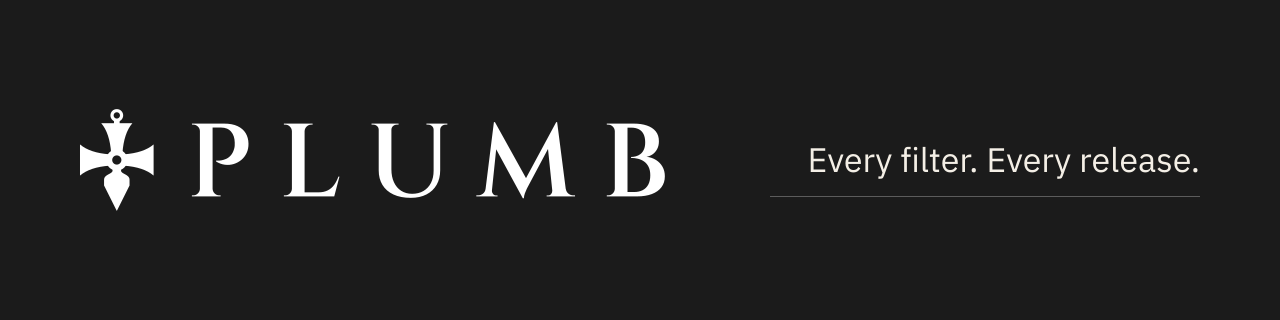
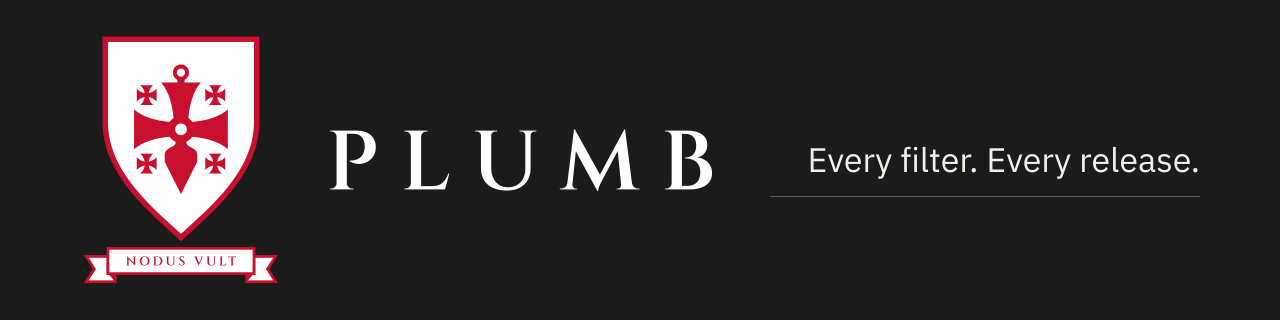
doc: Put the emblem on the social preview and README header
Plumb has an emblem now: the cross mark on a white shield with four
crosslets, over a scroll reading NODUS VULT. plumb-emblem.svg is the
master, with one-color black and white versions next to it. The motto
is drawn as outlines, so rendering it needs no font.

gen-assets.py puts the emblem to the left of the wordmark on the social
preview and the README header, and renders emblem-896.png. A second
run of the script changes nothing, and the X banner, avatars, favicons
and filter badge come out the same as before.

Changed region(s): [[0.0625, 0.0938, 0.5625, 0.9062]]

diff --git a/plumb/tools/gen-assets.py b/plumb/tools/gen-assets.py
@@ -7,7 +7,9 @@
 Reads plumb/filters.json, checks it against PLUMB_FILTERS in src/init.cpp,
 writes plumb/FILTERS.md, the filter list in README.md and the filter badge,
 and renders the README header, social preview,
-X banner, avatars and favicons with rsvg-convert. Rendering needs the
+X banner, emblem, avatars and favicons with rsvg-convert. The README header
+and social preview carry the emblem from plumb/assets/plumb-emblem.svg; its
+motto is drawn as outlines, so it needs no font. Rendering needs the
 Cinzel, IBM Plex Sans and IBM Plex Mono fonts installed. Fontconfig cannot
 pick weight 600 out of the variable Cinzel font, so make a static instance
 named "Cinzel SemiBold" (fonttools varLib.instancer, wght=600) first.
@@ -68,6 +70,32 @@ def lockup(mask_id, fill, x, center_y, font_size):
     )
 
 
+def wordmark(fill, x, center_y, font_size):
+    """The PLUMB wordmark alone, its cap height centered on center_y."""
+    cap = 0.70 * font_size
+    return (
+        f'<text x="{x:.1f}" y="{center_y + cap / 2:.1f}" fill="{fill}" font-family="Cinzel SemiBold, Cinzel" '
+        f'font-weight="600" font-size="{font_size}" letter-spacing="{0.26 * font_size:.1f}">PLUMB</text>'
+    )
+
+
+def emblem(mask_id, x, y, height):
+    """The emblem (shield, crosslets, NODUS VULT scroll), placed with its top left at x,y.
+
+    Returns the markup and the width it takes at that height."""
+    source = (ASSETS / "plumb-emblem.svg").read_text()
+    box = re.search(r'viewBox="([^"]+)"', source).group(1)
+    box_width, box_height = map(float, box.split()[2:])
+    inner = re.search(r"<svg[^>]*>(.*)</svg>", source, re.DOTALL).group(1)
+    inner = re.sub(r"<title>.*?</title>|<metadata>.*?</metadata>", "", inner, flags=re.DOTALL)
+    inner = inner.replace('id="m"', f'id="{mask_id}"').replace("url(#m)", f"url(#{mask_id})")
+    width = height * box_width / box_height
+    return (
+        f'<svg x="{x:.2f}" y="{y:.2f}" width="{width:.2f}" height="{height:.2f}" viewBox="{box}">{inner}</svg>',
+        width,
+    )
+
+
 def svg(width, height, body):
     return (
         f'<svg xmlns="http://www.w3.org/2000/svg" width="{width}" height="{height}" '
@@ -84,12 +112,29 @@ def header(width, height, pad):
         f'<rect x="{width - pad - 430}" y="{height / 2 + 36}" width="430" height="1" fill="{SLATE}"/>')
 
 
+def readme_header():
+    """Emblem on the left, wordmark beside it, the supporting line on the right."""
+    width, height, pad = 1280, 320, 80
+    art, art_width = emblem("he", pad, 32, height - 64)
+    return svg(width, height,
+        f'<rect width="{width}" height="{height}" fill="{CHARCOAL}"/>'
+        + art
+        + wordmark(WHITE, pad + art_width + 44, height / 2, 84)
+        + f'<text x="{width - pad}" y="{height / 2 + 12}" fill="{PARCHMENT}" font-family="IBM Plex Sans" '
+        f'font-size="34" text-anchor="end">Every filter. Every release.</text>'
+        f'<rect x="{width - pad - 430}" y="{height / 2 + 36}" width="430" height="1" fill="{SLATE}"/>')
+
+
 def social():
+    """Emblem on the left, wordmark and the primary line beside it, the clone line below."""
+    art, art_width = emblem("se", 96, 76, 348)
+    text_x = 96 + art_width + 58
     return svg(1280, 640,
         f'<rect width="1280" height="640" fill="{PARCHMENT}"/>'
-        + lockup("s", RED, 96, 210, 112)
-        + f'<text x="96" y="390" fill="{CHARCOAL}" font-family="IBM Plex Sans" font-weight="500" '
-        f'font-size="52">Pure bitcoin. No spam tolerated.</text>'
+        + art
+        + wordmark(RED, text_x, 196, 112)
+        + f'<text x="{text_x:.1f}" y="330" fill="{CHARCOAL}" font-family="IBM Plex Sans" font-weight="500" '
+        f'font-size="50">Pure bitcoin. No spam tolerated.</text>'
         f'<rect x="96" y="460" width="1088" height="84" fill="{CHARCOAL}"/>'
         f'<text x="128" y="512" fill="{PARCHMENT}" font-family="IBM Plex Mono" font-size="30">'
         '$ git clone https://github.com/plumb-node/plumb</text>')
@@ -268,7 +313,7 @@ def main():
 
     PNG.mkdir(exist_ok=True)
     sources = {
-        "readme-header": header(1280, 320, 80),
+        "readme-header": readme_header(),
         "social-preview": social(),
         "x-banner": header(1500, 500, 140),
     }
@@ -276,6 +321,7 @@ def main():
         path = ASSETS / f"{name}.svg"
         path.write_text(text)
         render(path, PNG / f"{name}.png", int(re.search(r'width="(\d+)"', text).group(1)))
+    render(ASSETS / "plumb-emblem.svg", PNG / "emblem-896.png", 896)
     for size in (16, 32, 48):
         render(ASSETS / "plumb-favicon.svg", PNG / f"favicon-{size}.png", size, size)
     for size in (180, 400, 512):
